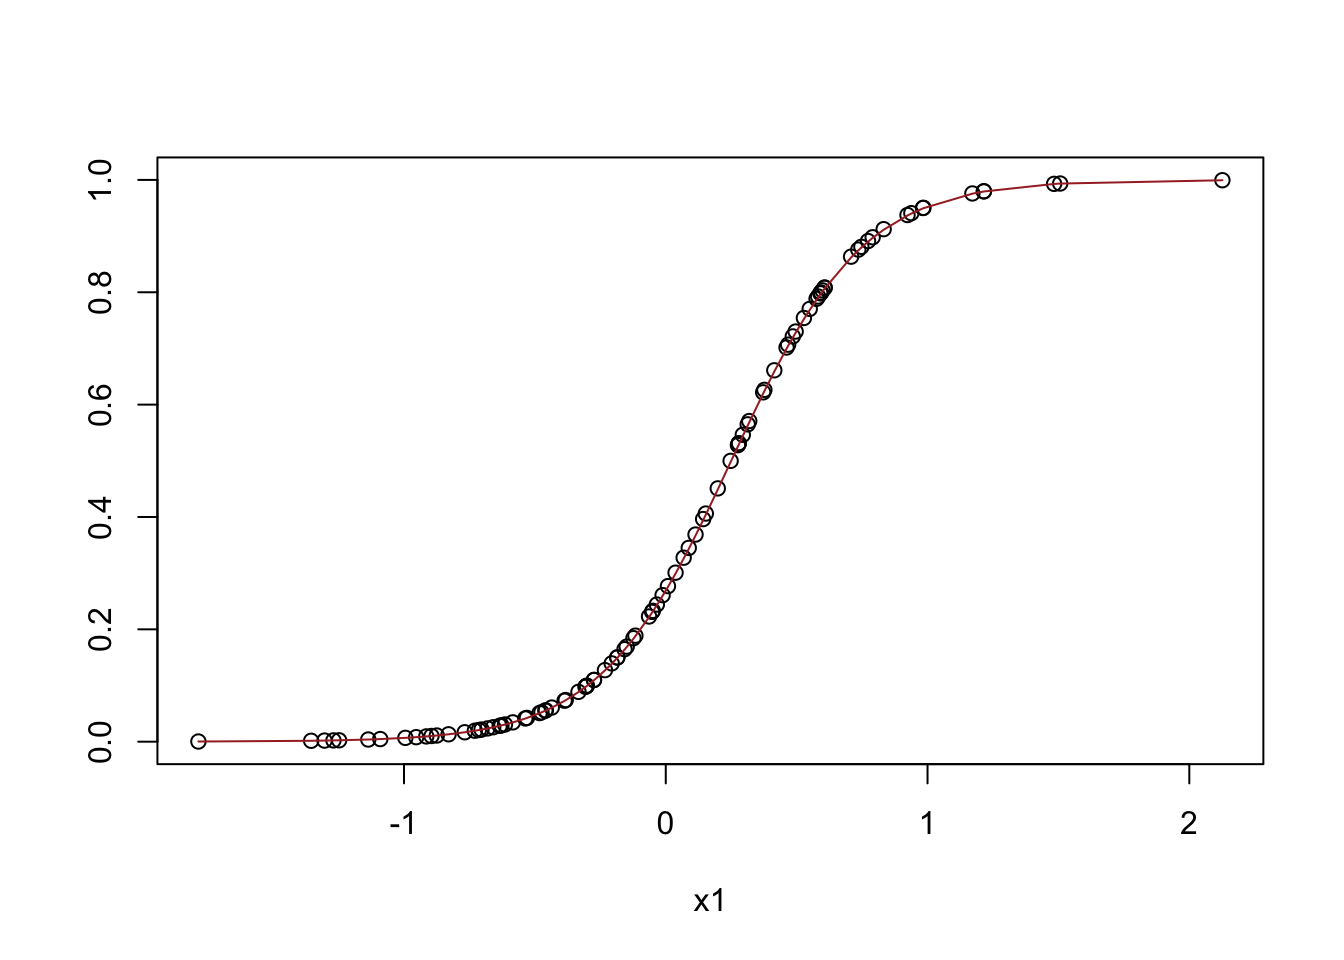
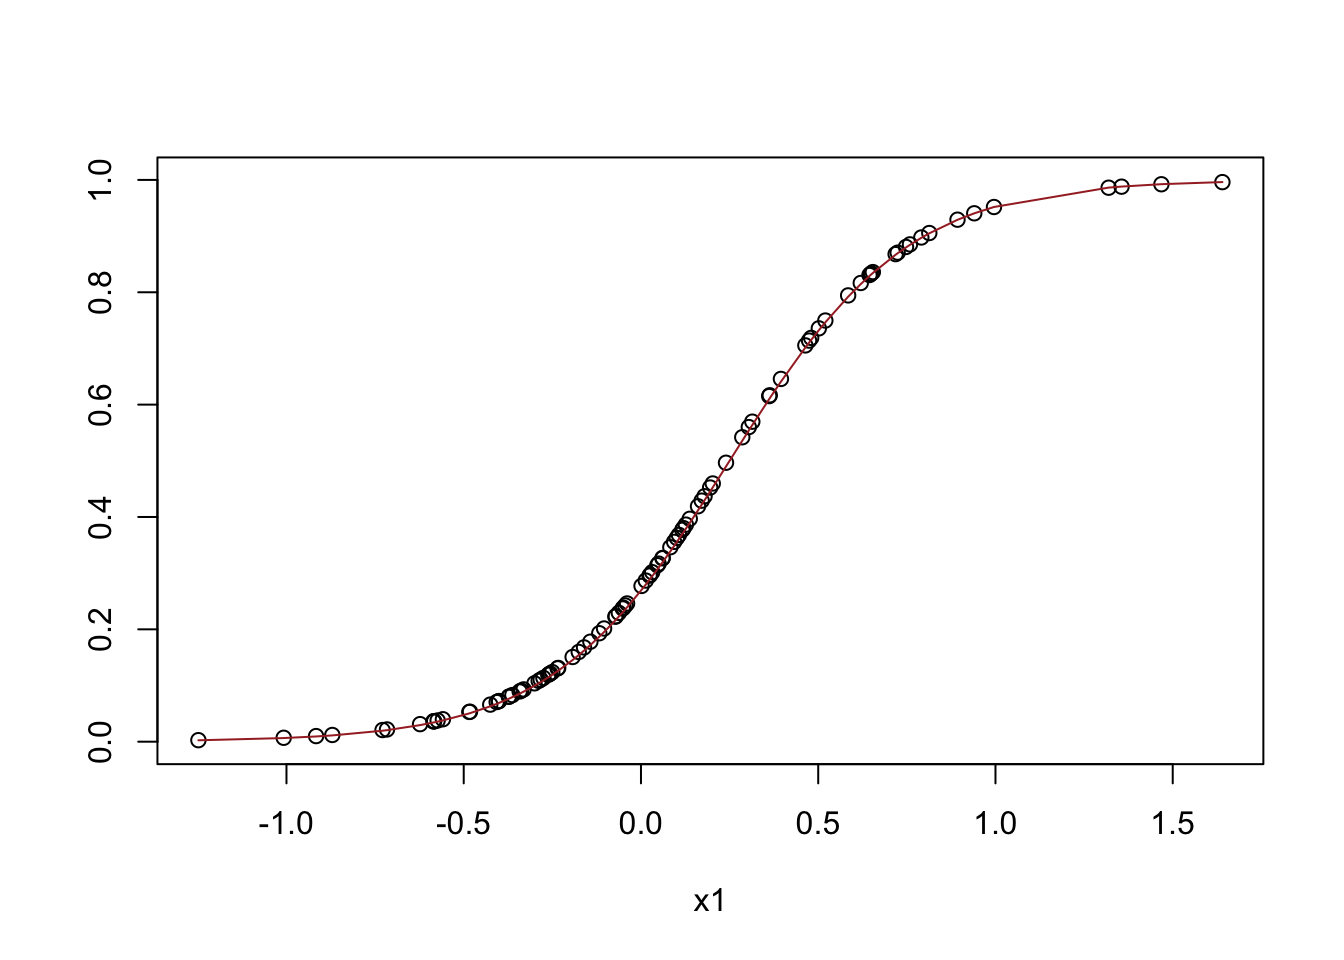
fix jenson inequality

diff --git a/JensenIneq.html b/JensenIneq.html
@@ -410,7 +410,7 @@ div.tocify {
 
 <div style="background-color:white;color:blue;matrixOperation:20px;">
 <ins>
-<h3 id="jensens-inequility">Jensen’s Inequility</h3>
+<h3 id="jensens-inequility-gex-neq-egx">Jensen’s Inequility <span class="math inline">\(g(E[X]) \neq E[g(X)]\)</span></h3>
 </ins>
 </div>
 <ul>
@@ -474,6 +474,31 @@ legend(&#39;topright&#39;, legend = c(&#39;unadjusted&#39;,&#39;residual s.d. ad
 <h3 id="example---probabilities">Example - Probabilities</h3>
 </ins>
 </div>
+<pre class="r"><code>library(Rlab)
+library(sqldf)
+alpha &lt;- 2
+beta &lt;- 3.5
+n = 100
+m = 500
+variables &lt;- data.frame(matrix(NA, nrow = n*m, ncol = 1))
+colnames(variables) &lt;- &#39;x1&#39;
+for(i in 1:n) {
+  x1 &lt;- rep(rnorm(1,0,1),n)
+  e &lt;- rnorm(m,0,3)
+  logOdds &lt;- alpha + beta*x1+e
+  variables$x1[(1+m*(i-1)):(i*m)] &lt;- x1
+  variables$e[(1+m*(i-1)):(i*m)] &lt;- e
+  variables$logOdds[(1+m*(i-1)):(i*m)] &lt;- logOdds
+  variables$p[(1+m*(i-1)):(i*m)] &lt;- exp(logOdds)/(1+exp(logOdds))
+}
+
+lm_logOdds &lt;- lm(logOdds~x1, data = variables)
+variables$model_p &lt;- exp(lm_logOdds$fitted.values)/(1+exp(lm_logOdds$fitted.values))
+
+groups &lt;- sqldf(&quot;select x1, avg(p), avg(model_p) from variables group by 1&quot;)
+
+plot(x = groups$x1, y = groups$`avg(p)`)
+points(x = groups$x1, y = groups$`avg(model_p)`, col = &#39;red&#39;)</code></pre>
 <p><img src="JensenIneq_files/figure-html/unnamed-chunk-2-1.png" width="672" /></p>
 <div style="background-color:white;color:blue;matrixOperation:20px;">
 <ins>
@@ -562,13 +587,13 @@ points(x = groups$x1, y = groups$`avg(p_E)`, col = &#39;blue&#39;)</code></pre>
 <p><img src="JensenIneq_files/figure-html/unnamed-chunk-3-1.png" width="672" /></p>
 <pre class="r"><code>print(glm_sim$coefficients)</code></pre>
 <pre><code>## (Intercept)          x1 
-##  -0.4914875   1.9224766</code></pre>
+##  -0.4501502   1.8746231</code></pre>
 <pre class="r"><code>plot(x = groups$x1, y = groups$`avg(model_p_f)`, ylim = c(0,1), xlab = &#39;x1&#39;, ylab = &#39;&#39;)
 lines(x = groups$x1, y = groups$`avg(p_f)`, col = &#39;brown&#39;)</code></pre>
 <p><img src="JensenIneq_files/figure-html/unnamed-chunk-4-1.png" width="672" /></p>
 <pre class="r"><code>print(glm_sim_f$coefficients)</code></pre>
 <pre><code>## (Intercept)          x1 
-##  -0.9932173   4.0073045</code></pre>
+##  -0.9644351   3.9634952</code></pre>
 
 
 

diff --git a/econometrics.html b/econometrics.html
@@ -349,7 +349,7 @@ $(document).ready(function () {
 <h4>Probability &amp; Math Fundementals</h4>
 <ul>
 <li><a href="LinearAlgebra.html">Linear Algebra for Machine Learning</a></li>
-<li><a href="jensenineq.html">Jensen’s Inequility</a></li>
+<li><a href="jensenineq.html">Jensen’s Inequility <span class="math inline">\(g(E[X]) \neq E[g(X)]\)</span></a></li>
 <li><a href="CLM.html">Central Limit Theorem</a><br />
 </li>
 <li><a href="PoissonDistribution.html">Poisson Distribution</a><br />

diff --git a/deriveOLS.md b/deriveOLS.md
@@ -1,0 +1,244 @@
+<ins>
+### Problem Formulation
+
+</ins>
+
+The purpose of this section is to derive the estimators of OLS (Ordinary
+Least Square), their expectation and variance.
+*y* = *x**β* + *ϵ*
+
+$$
+\\begin{bmatrix}
+y\_{1}\\\\
+y\_{2}\\\\
+\\vdots\\\\
+y\_{T}
+\\end{bmatrix}=
+\\begin{bmatrix}
+x\_{1,1} & x\_{1,2} & \\dots & x\_{1,K} \\\\
+x\_{2,1} & x\_{2,2} & \\dots & x\_{2,K} \\\\
+\\vdots & \\vdots & \\ddots & \\vdots \\\\
+x\_{T,1} & x\_{T,2} & \\dots & x\_{T,K}
+\\end{bmatrix}
+\\begin{bmatrix}
+\\beta\_{1}\\\\
+\\vdots\\\\
+\\beta\_{K}
+\\end{bmatrix}+
+\\begin{bmatrix}
+\\epsilon\_{1}\\\\
+\\epsilon\_{2}\\\\
+\\vdots\\\\
+\\epsilon\_{T}
+\\end{bmatrix}
+$$
+ note that
+*e* = *y* − *x**β̂*
+ and
+
+*ϵ* ≠ *e*
+
+**Goal: minimize sum of squared residuals**
+*m**i**n*(*e*<sup>′</sup>*e*)
+$$
+\\begin{aligned}
+e^{\\prime} e &=  (y-x\\hat{\\beta})^{\\prime}(y-x\\hat{\\beta}) \\\\
+&= y^{\\prime} y - \\hat{\\beta}^{\\prime} x^{\\prime} y - y^{\\prime} x\\hat{\\beta} + \\hat{\\beta}^{\\prime} x^{\\prime} x \\hat{\\beta} \\\\
+&= y^{\\prime} y - 2\\hat{\\beta}^{\\prime} x^{\\prime} y + \\hat{\\beta}^{\\prime} x^{\\prime} x \\hat{\\beta} \\\\
+\\end{aligned}
+$$
+
+given that
+(*A**B*)<sup>′</sup> = *B*<sup>′</sup>*A*<sup>′</sup>
+ and transpose of a scaler is a scaler
+*y*<sup>′</sup>*x**β̂* = (*y*<sup>′</sup>*x**β̂*)<sup>′</sup> = (*x**β̂*)<sup>′</sup>*y* = *β̂*<sup>′</sup>*x*<sup>′</sup>*y*
+
+$$ \\frac{\\partial e^{\\prime} e}{\\partial \\hat{\\beta}} = -2x^{\\prime} y+2x^{\\prime} x \\hat{\\beta} = 0 $$
+
+ ⇒ *x*<sup>′</sup>*x**β̂* = *x*<sup>′</sup>*y*
+$$ 
+\\begin{aligned}
+\\Rightarrow \\hat{\\beta} &= (x^{\\prime} x)^{-1}x^{\\prime} y ,\\,\\ (\\,if \\,\\, (x^{\\prime} x)^{-1} \\,\\, exists) \\\\
+ &= (x^{\\prime} x)^{-1}x^{\\prime} (x\\beta + \\epsilon) \\\\
+ &= \\beta+(x^{\\prime} x)^{-1}x^{\\prime}  \\epsilon 
+ \\end{aligned}
+ $$
+
+<ins>
+### Unbiasedness of *β̂*<sub>*O**L**S*</sub>
+
+</ins>
+
+*E*\[*β̂*\] = *β* + *E*\[(*x*<sup>′</sup>*x*)<sup> − 1</sup>*x*<sup>′</sup>*ϵ*\]
+
+If *E*\[*ϵ*\] = 0 and *E*\[*ϵ*|*x*\] = 0, then
+*E*\[(*x*<sup>′</sup>*x*)<sup> − 1</sup>*x*<sup>′</sup>*ϵ*\] = 0 and
+*E*\[*β̂*\] = *β*.  
+** ⇒ *β̂* is an unbiased estimator.**
+
+------------------------------------------------------------------------
+
+<ins>
+### Variance of the *β̂*<sub>*O**L**S*</sub>
+
+</ins>
+
+recall the formula for variance
+*V**a**r*(*A*) = *E*\[ (*A* − *E*\[*A*\]) (*A* − *E*\[*A*\])<sup>′</sup>\]
+ and the OLS estimator we just derived
+*β̂*<sub>*O**L**S*</sub> = *β* + (*x*<sup>′</sup>*x*)<sup> − 1</sup>*x*<sup>′</sup>*ϵ*
+ and if the OLS estimator is an unbiased estimator
+*E*\[*β̂*<sub>*O**L**S*</sub>\] = *β*
+ Then
+$$
+\\begin{aligned}
+Var(\\hat\\beta\_{OLS}) &= E\[(x^{\\prime} x)^{-1}x^{\\prime}\\epsilon \\,\\, ((x^{\\prime} x)^{-1}x^{\\prime}\\epsilon)^{\\prime}\] \\\\
+&=(x^{\\prime} x)^{-1}x^{\\prime} \\,\\, E\[\\epsilon\\epsilon^{\\prime}\] \\,\\, ((x^{\\prime} x)^{-1}x^{\\prime})^{\\prime}
+\\end{aligned}
+$$
+ if *E*\[*ϵ**ϵ*<sup>′</sup>\] = *σ*<sup>2</sup>*I*<sub>*T*</sub> and
+*E*\[*ϵ*|*X*\] = 0 Then
+$$
+\\begin{aligned}
+Var(\\hat\\beta\_{OLS}) &=(x^{\\prime} x)^{-1}x^{\\prime} \\,\\, E\[\\epsilon\\epsilon^{\\prime}\] \\,\\, ((x^{\\prime} x)^{-1}x^{\\prime})^{\\prime} \\\\
+&=\\sigma^2(X^{\\prime} X)^{-1}
+\\end{aligned}
+$$
+ We don’t know the *ϵ*…we only have the estimate of it-the residuals *e*
+where *e* = *Y* − *X**β̂*<sub>*O**L**S*</sub>.
+
+Then we estimate the *σ*<sup>2</sup> by
+$$s^2= \\frac{e^{\\prime} e}{T-K} $$
+ where *K* is the number of explanatory variables
+
+Therefore, our estimate of variance of *β̂*<sub>*O**L**S*</sub> becomes
+*s*<sup>2</sup>(*X*<sup>′</sup>*X*)<sup> − 1</sup>
+ Then the distribution of *β̂*<sub>*O**L**S*</sub> becomes a
+t-distribution with *T* − *K* degree of freedoms with *m**e**a**n* = *β*
+and
+*v**a**r**i**a**n**c**e* = *s*<sup>2</sup>(*X*<sup>**<sup>′</sup></sup>*X*)<sup> − 1</sup>
+
+<ins>
+### Distribution of *β̂*<sub>*O**L**S*</sub>
+
+</ins>
+
+With the expected value and variance estimated in the above sections, we
+still need to know the sampling distribution of *β̂*<sub>*O**L**S*</sub>
+to perform the significant test
+
+-   *ϵ* is normally distributed, then *β̂*<sub>*O**L**S*</sub> is
+    normally distributed
+-   Don’t know *ϵ*’s distribution: Large sample -&gt;
+    *β̂*<sub>*O**L**S*</sub> is asymtotically normally distributed. The
+    common argument for this assumption is that *ϵ* is a sum of many
+    unobserved factors, so by Generalized Central Limit Theorem it is
+    asymtotically normally distributed. (Note: the standard Central
+    Limit Theorem requires that the samples of the unobserved factors
+    are i.d.d. which is not the case in the real world)
+
+The following code takes a sample of 20 non-i.d.d. variables (Normal,
+Uniform or Cauchy distributions with different parameters) and simulate
+1000 times.
+
+    N <- 1000
+    s <- numeric(0)
+    for(i in 1:N) {
+      x1 <- rnorm(1,-2,1)
+      x2 <- rnorm(1,-1,1)
+      x3 <- rnorm(1,2,1)
+      x4 <- rnorm(1,2,0.5)
+      x5 <- rnorm(1,5,2)
+      x6 <- rnorm(1,7,2)
+      x7 <- rcauchy(1,2,1)
+      x8 <- rcauchy(1,2,2)
+      x9 <- runif(1,0,3)
+      x10 <- runif(1,2,3)
+      x11 <- runif(1,3,5)
+      x12 <- rnorm(1,2.2,0.8)
+      x13 <- rnorm(1,6,1)
+      x14 <- rcauchy(1,2,1.5)
+      x15 <- runif(1,0,6)
+      x16 <- runif(1,5,6)
+      x17 <- rnorm(1,3,1)
+      x18 <- rnorm(1,10,3)
+      x19 <- rcauchy(1,2,2)
+      x20 <- runif(1,-2,8)
+      s20 <- x1+x2+x3+x4+x5+x6+x7+x8+x9+x10+x11+x12+x13+x14+x15+x16+x17+x18+x19+x20
+      s20 <- s20/20
+      s <- c(s, s20)
+    }
+    s_95q <- quantile(s,0.95)
+    s_5q <- quantile(s,0.05)
+    s <- s[which(s>s_5q & s<s_95q)]
+    hist(s, breaks = 40, xlim=c(0,6), freq = F)
+    xfit <- seq(min(s), max(s), length=40)
+    s_mean <- mean(s)
+    s_sd <- sd(s)
+    yfit_density <- dnorm(xfit, mean=s_mean,sd=s_sd)
+    lines(xfit, yfit_density, col="blue", lwd=2)
+
+![](deriveOLS_files/figure-markdown_strict/unnamed-chunk-1-1.png)
+
+<ins>
+### Significancy & Confidence Interval
+
+</ins>
+
+The significance test and condifence intervals tell us about the same
+thing we want to know and will have the same conclusion. However, there
+are suble difference of the way they look at this.
+
+**The t statistics:**
+$$t = \\frac{\\bar{X}-\\mu}{\\hat{\\sigma}/\\sqrt{n}}$$
+ where *μ* is the population mean, *σ̂* is the estimate of the standard
+deviation of the population. The t statistics follows **Student t
+distribution**. (Derived from $\\frac{\\bar{X}-\\mu}{\\sigma/\\sqrt{n}}$
+follows normal distribution by the central limit theorem, but the
+standard deviation of the population is an estimation from the sample in
+t statistics)
+
+-   The significance test has the *μ* as the value of Null hypothesis
+    and measures the distance of sample mean from the Null hypothesis.
+
+-   The confidence interval is an interval with the sample mean at the
+    center and the confidence limit stretched from the sample mean.
+
+<ins>
+### F Test for the Model
+
+</ins>
+
+*y* = *β*<sub>0</sub> + *β*<sub>1</sub>*x*<sub>1</sub> + *β*<sub>2</sub>*x*<sub>2</sub> + ... + *β*<sub>*p*</sub>*x*<sub>*p*</sub> + *ϵ*
+
+*H*<sub>0</sub> : *β*<sub>1</sub> = *β*<sub>2</sub> = ... = *β*<sub>*p*</sub> = 0
+*H*<sub>1</sub> : *β*<sub>*i*</sub> ≠ 0
+ Sum of Squared Residuals of the Unrestricted model (the above
+equation):
+$$SSR\_U = \\sum\_{i=1}^n e\_U^2$$
+ where *e*<sub>*R*</sub> is the estimate of *ϵ* by the unrestricted
+model
+
+The restricted model (No explanatory variables)
+*y* = *β*<sub>0</sub> + *e*<sub>*R*</sub>
+
+then Sum of Squared Residuals of the Restricted model:
+$$SSR\_R = \\sum\_{i=1}^n e\_R^2$$
+
+*S**S**R*<sub>*R*</sub> &gt; *S**S**R*<sub>*U*</sub>
+
+but is it signigicant?
+
+$$F = \\frac{(SSR\_R-SSR\_U)/p}{SSR\_U/(n-p-1)}$$
+ Recall the Chi-square distribution - If
+*Z*<sub>1</sub>, ...*Z*<sub>*k*</sub> are independent, standard normal
+random variables, then the sum of their squares,
+
+$$Q = \\sum\_{i=1}^k Z\_i^2$$
+
+*Q* ∼ *χ*<sup>2</sup>(*k*)
+
+where *k* specifies the degree of freedom. The F distribution is the
+ratio of 2 scaled independent Chi-square distribution. The F test
+requires the sample errors *e* ,or *Z*<sub>*i*</sub> to be normally
+distributed.
